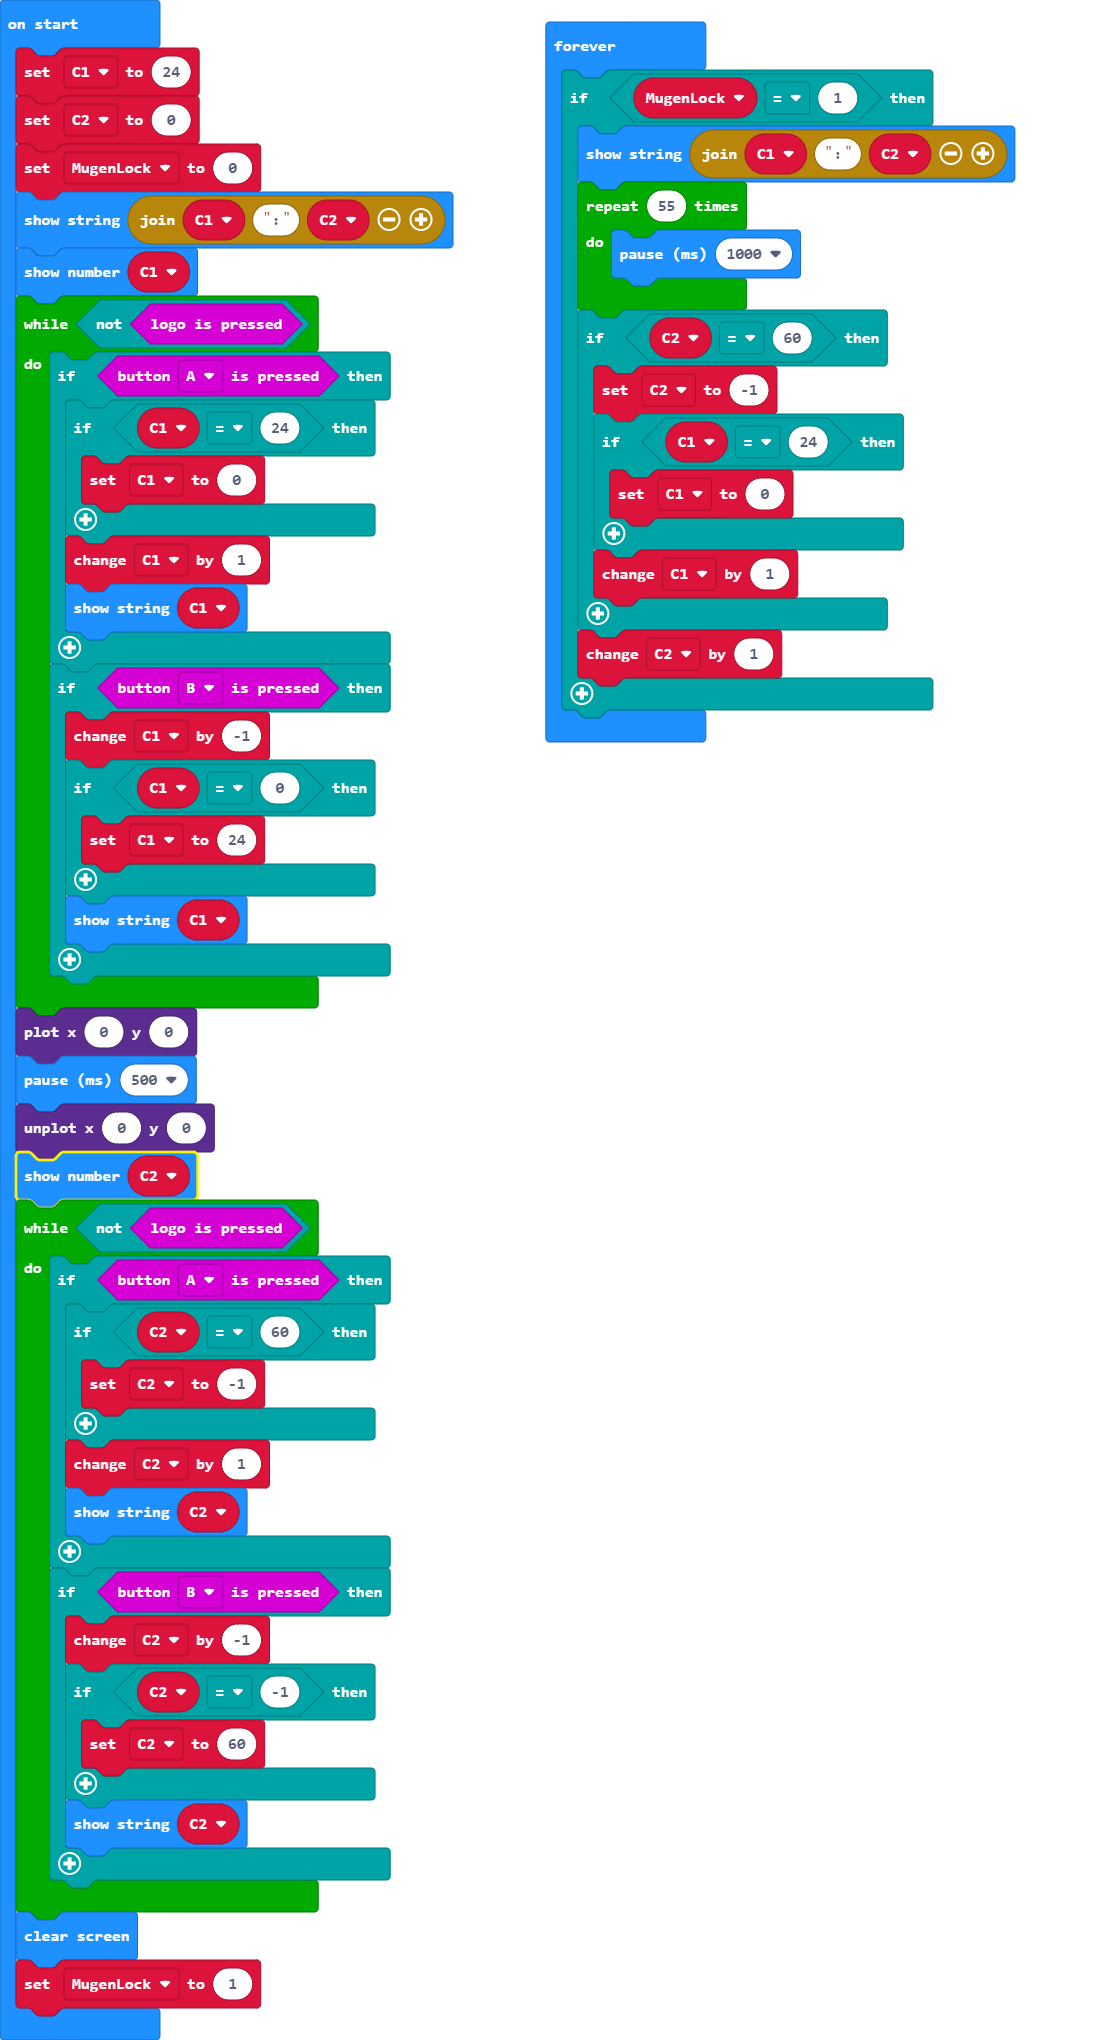
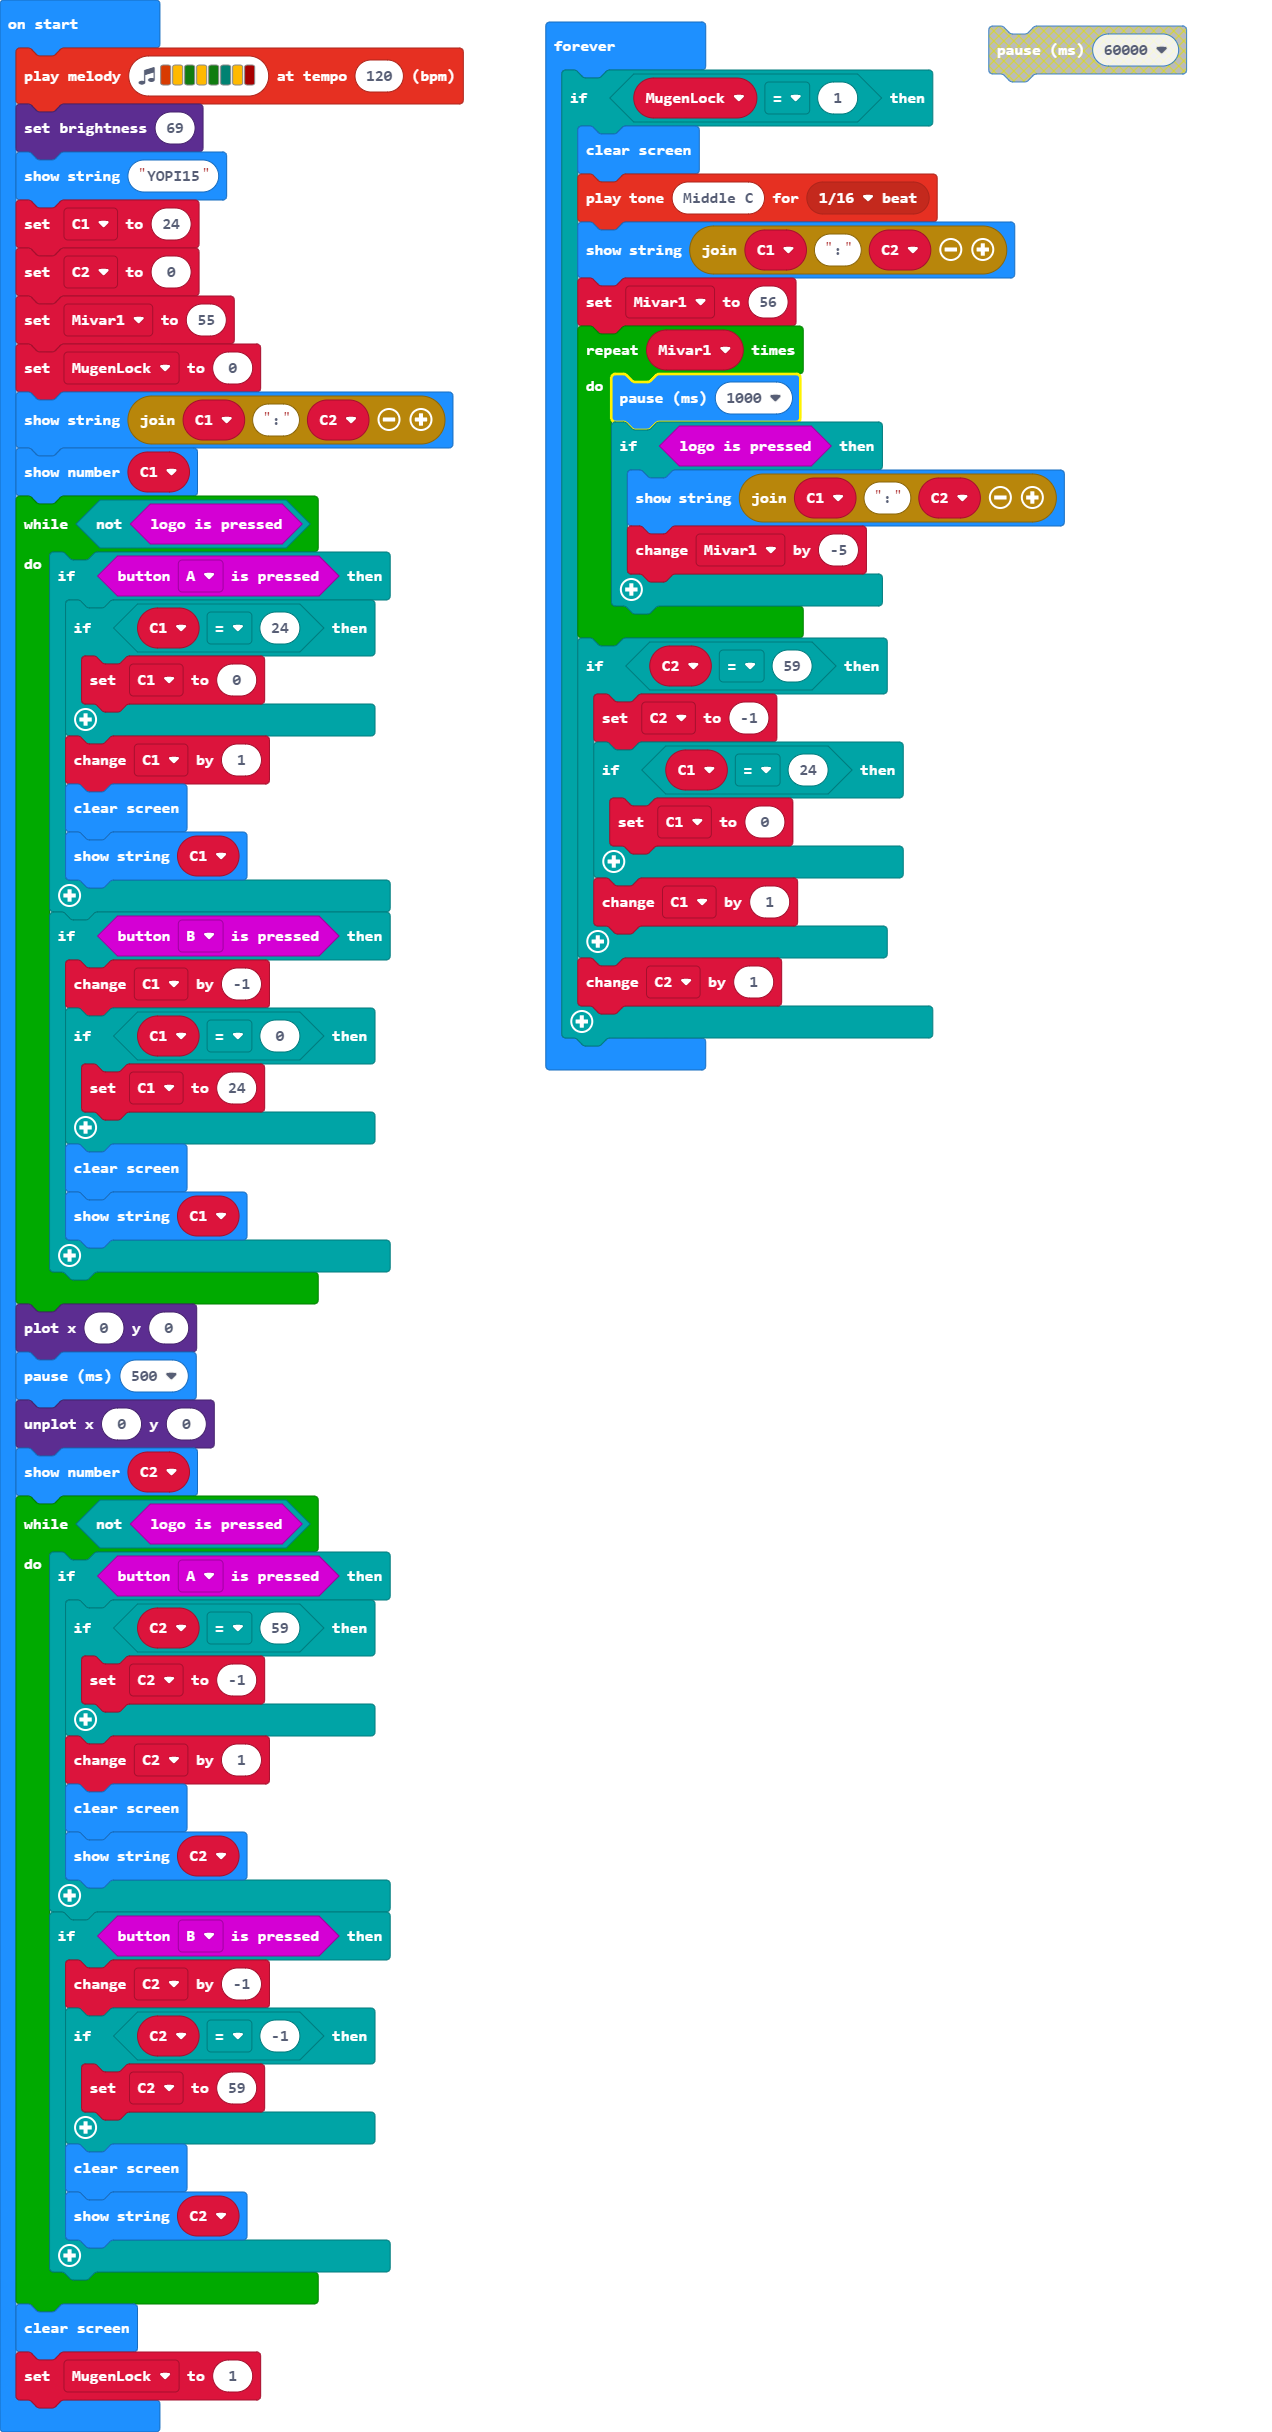
Update main.blocks, main.ts

diff --git a/main.ts b/main.ts
@@ -1,5 +1,9 @@
+music.playMelody("B A G A G F A C5 ", 120)
+led.setBrightness(69)
+basic.showString("YOPI15")
 let C1 = 24
 let C2 = 0
+let Mivar1 = 55
 let MugenLock = 0
 basic.showString("" + C1 + ":" + C2)
 basic.showNumber(C1)
@@ -9,6 +13,7 @@ while (!(input.logoIsPressed())) {
             C1 = 0
         }
         C1 += 1
+        basic.clearScreen()
         basic.showString("" + (C1))
     }
     if (input.buttonIsPressed(Button.B)) {
@@ -16,6 +21,7 @@ while (!(input.logoIsPressed())) {
         if (C1 == 0) {
             C1 = 24
         }
+        basic.clearScreen()
         basic.showString("" + (C1))
     }
 }
@@ -25,17 +31,19 @@ led.unplot(0, 0)
 basic.showNumber(C2)
 while (!(input.logoIsPressed())) {
     if (input.buttonIsPressed(Button.A)) {
-        if (C2 == 60) {
+        if (C2 == 59) {
             C2 = -1
         }
         C2 += 1
+        basic.clearScreen()
         basic.showString("" + (C2))
     }
     if (input.buttonIsPressed(Button.B)) {
         C2 += -1
         if (C2 == -1) {
-            C2 = 60
+            C2 = 59
         }
+        basic.clearScreen()
         basic.showString("" + (C2))
     }
 }
@@ -43,11 +51,18 @@ basic.clearScreen()
 MugenLock = 1
 basic.forever(function () {
     if (MugenLock == 1) {
+        basic.clearScreen()
+        music.playTone(262, music.beat(BeatFraction.Sixteenth))
         basic.showString("" + C1 + ":" + C2)
-        for (let index = 0; index < 55; index++) {
+        Mivar1 = 56
+        for (let index = 0; index < Mivar1; index++) {
             basic.pause(1000)
+            if (input.logoIsPressed()) {
+                basic.showString("" + C1 + ":" + C2)
+                Mivar1 += -5
+            }
         }
-        if (C2 == 60) {
+        if (C2 == 59) {
             C2 = -1
             if (C1 == 24) {
                 C1 = 0
